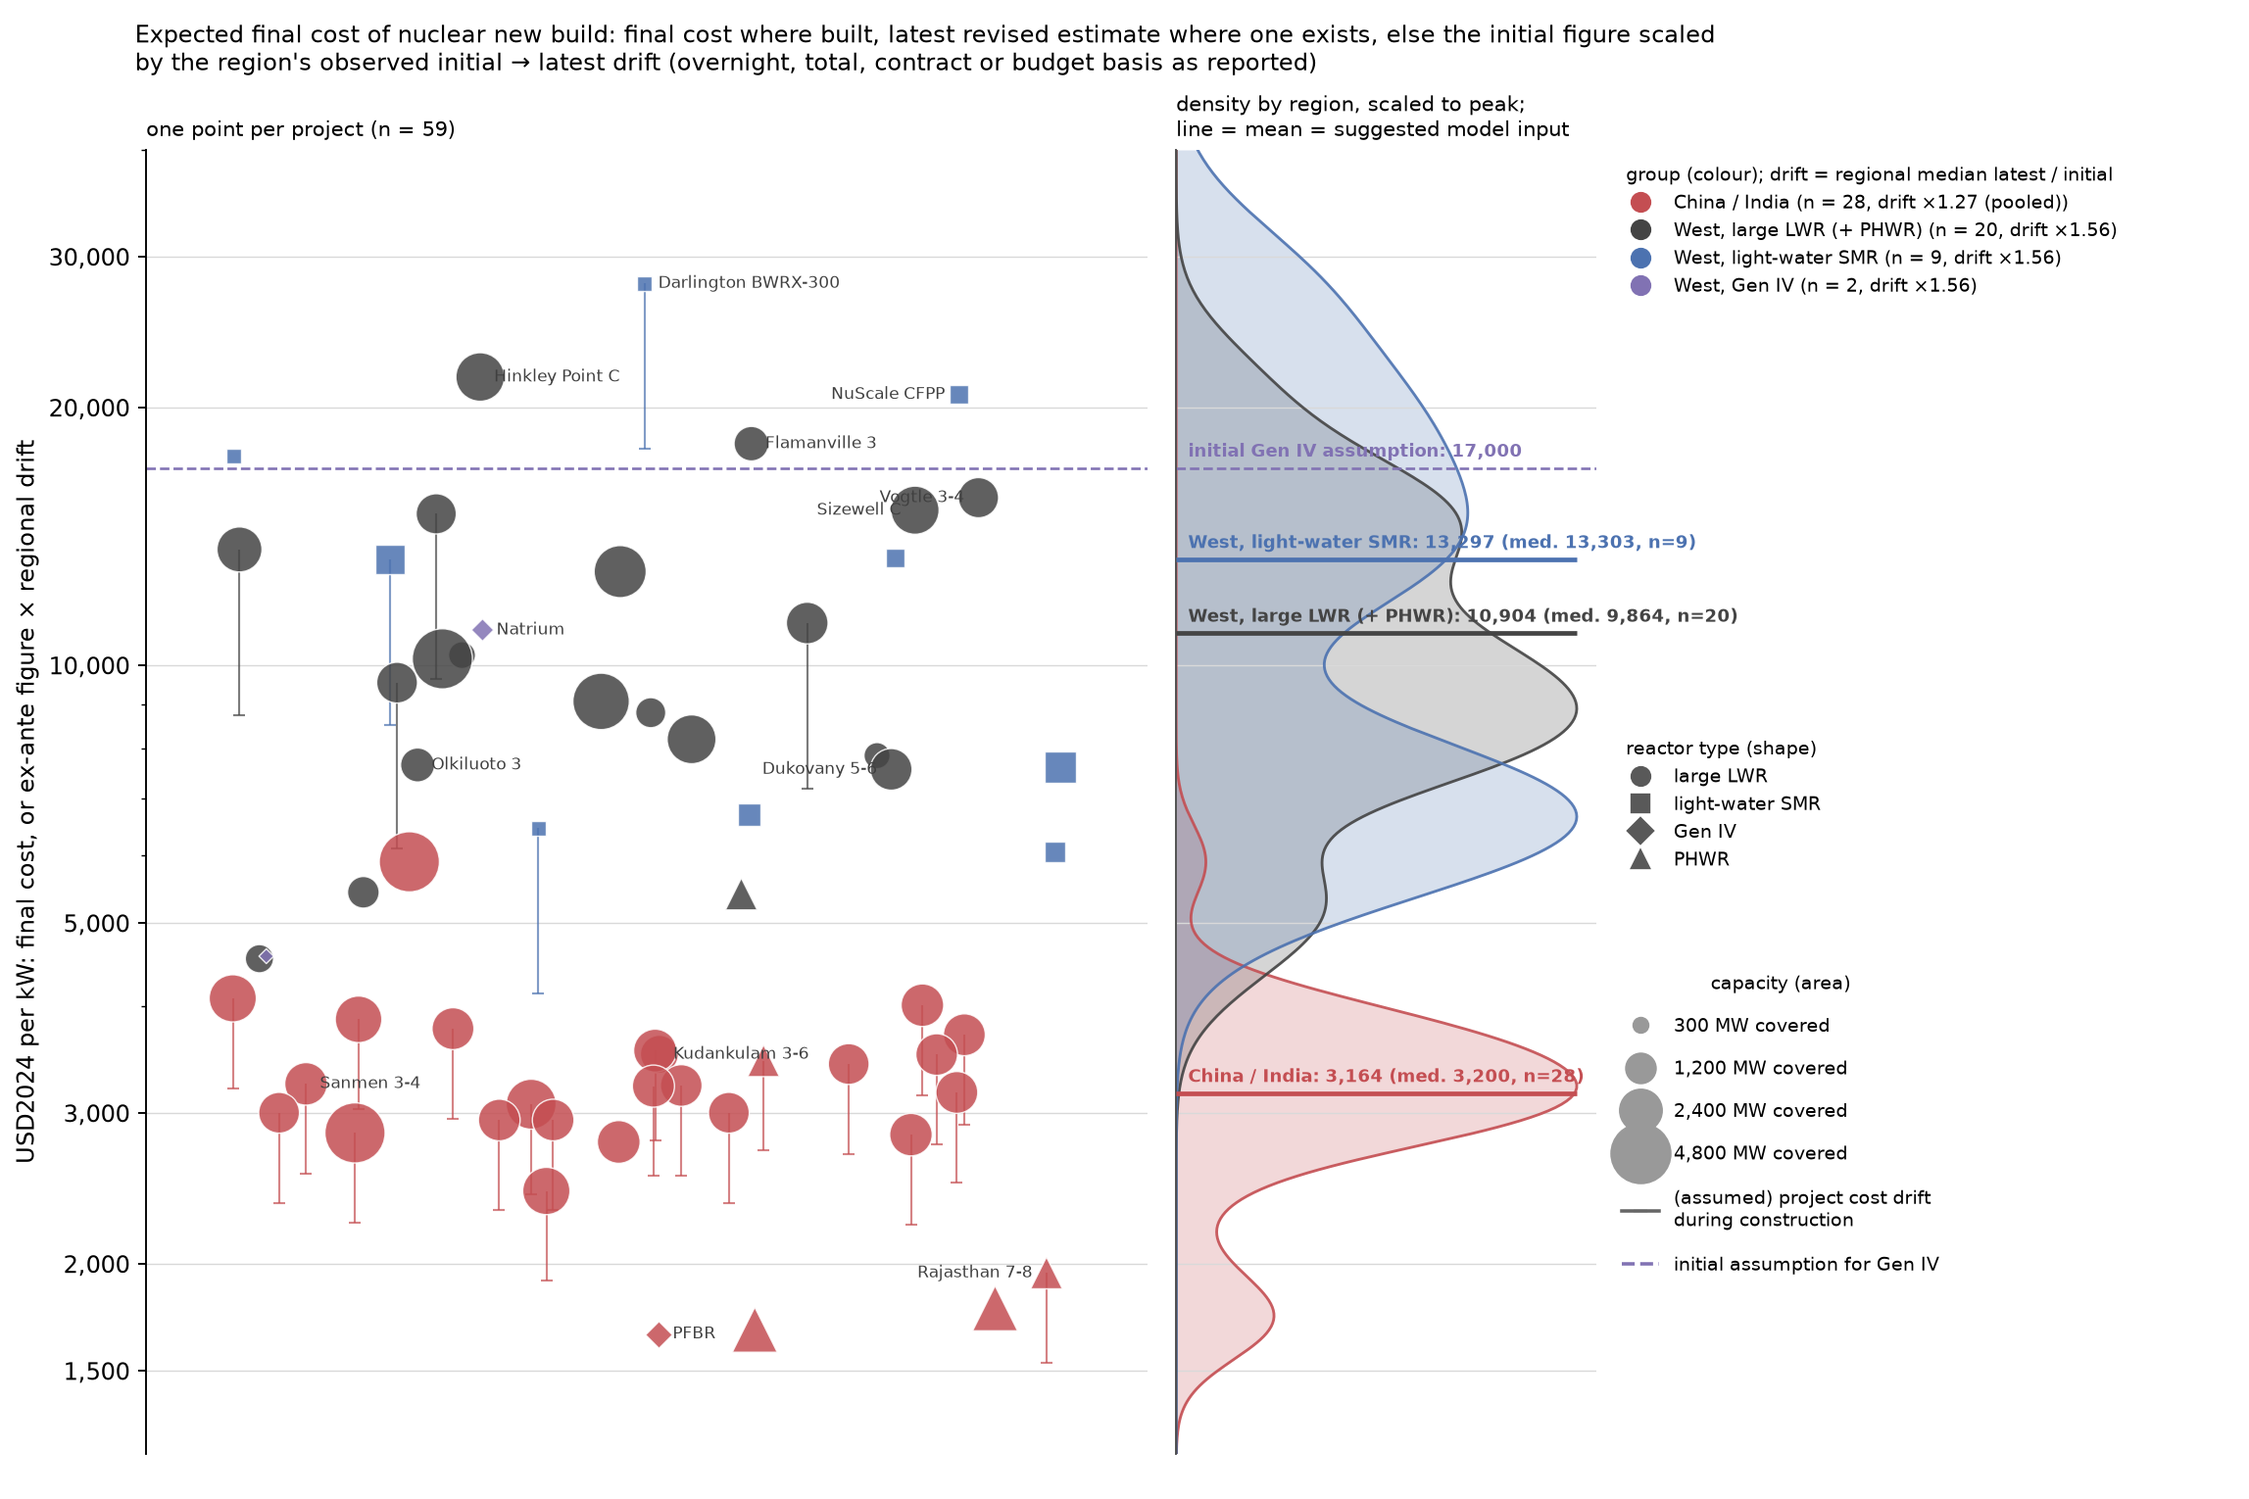
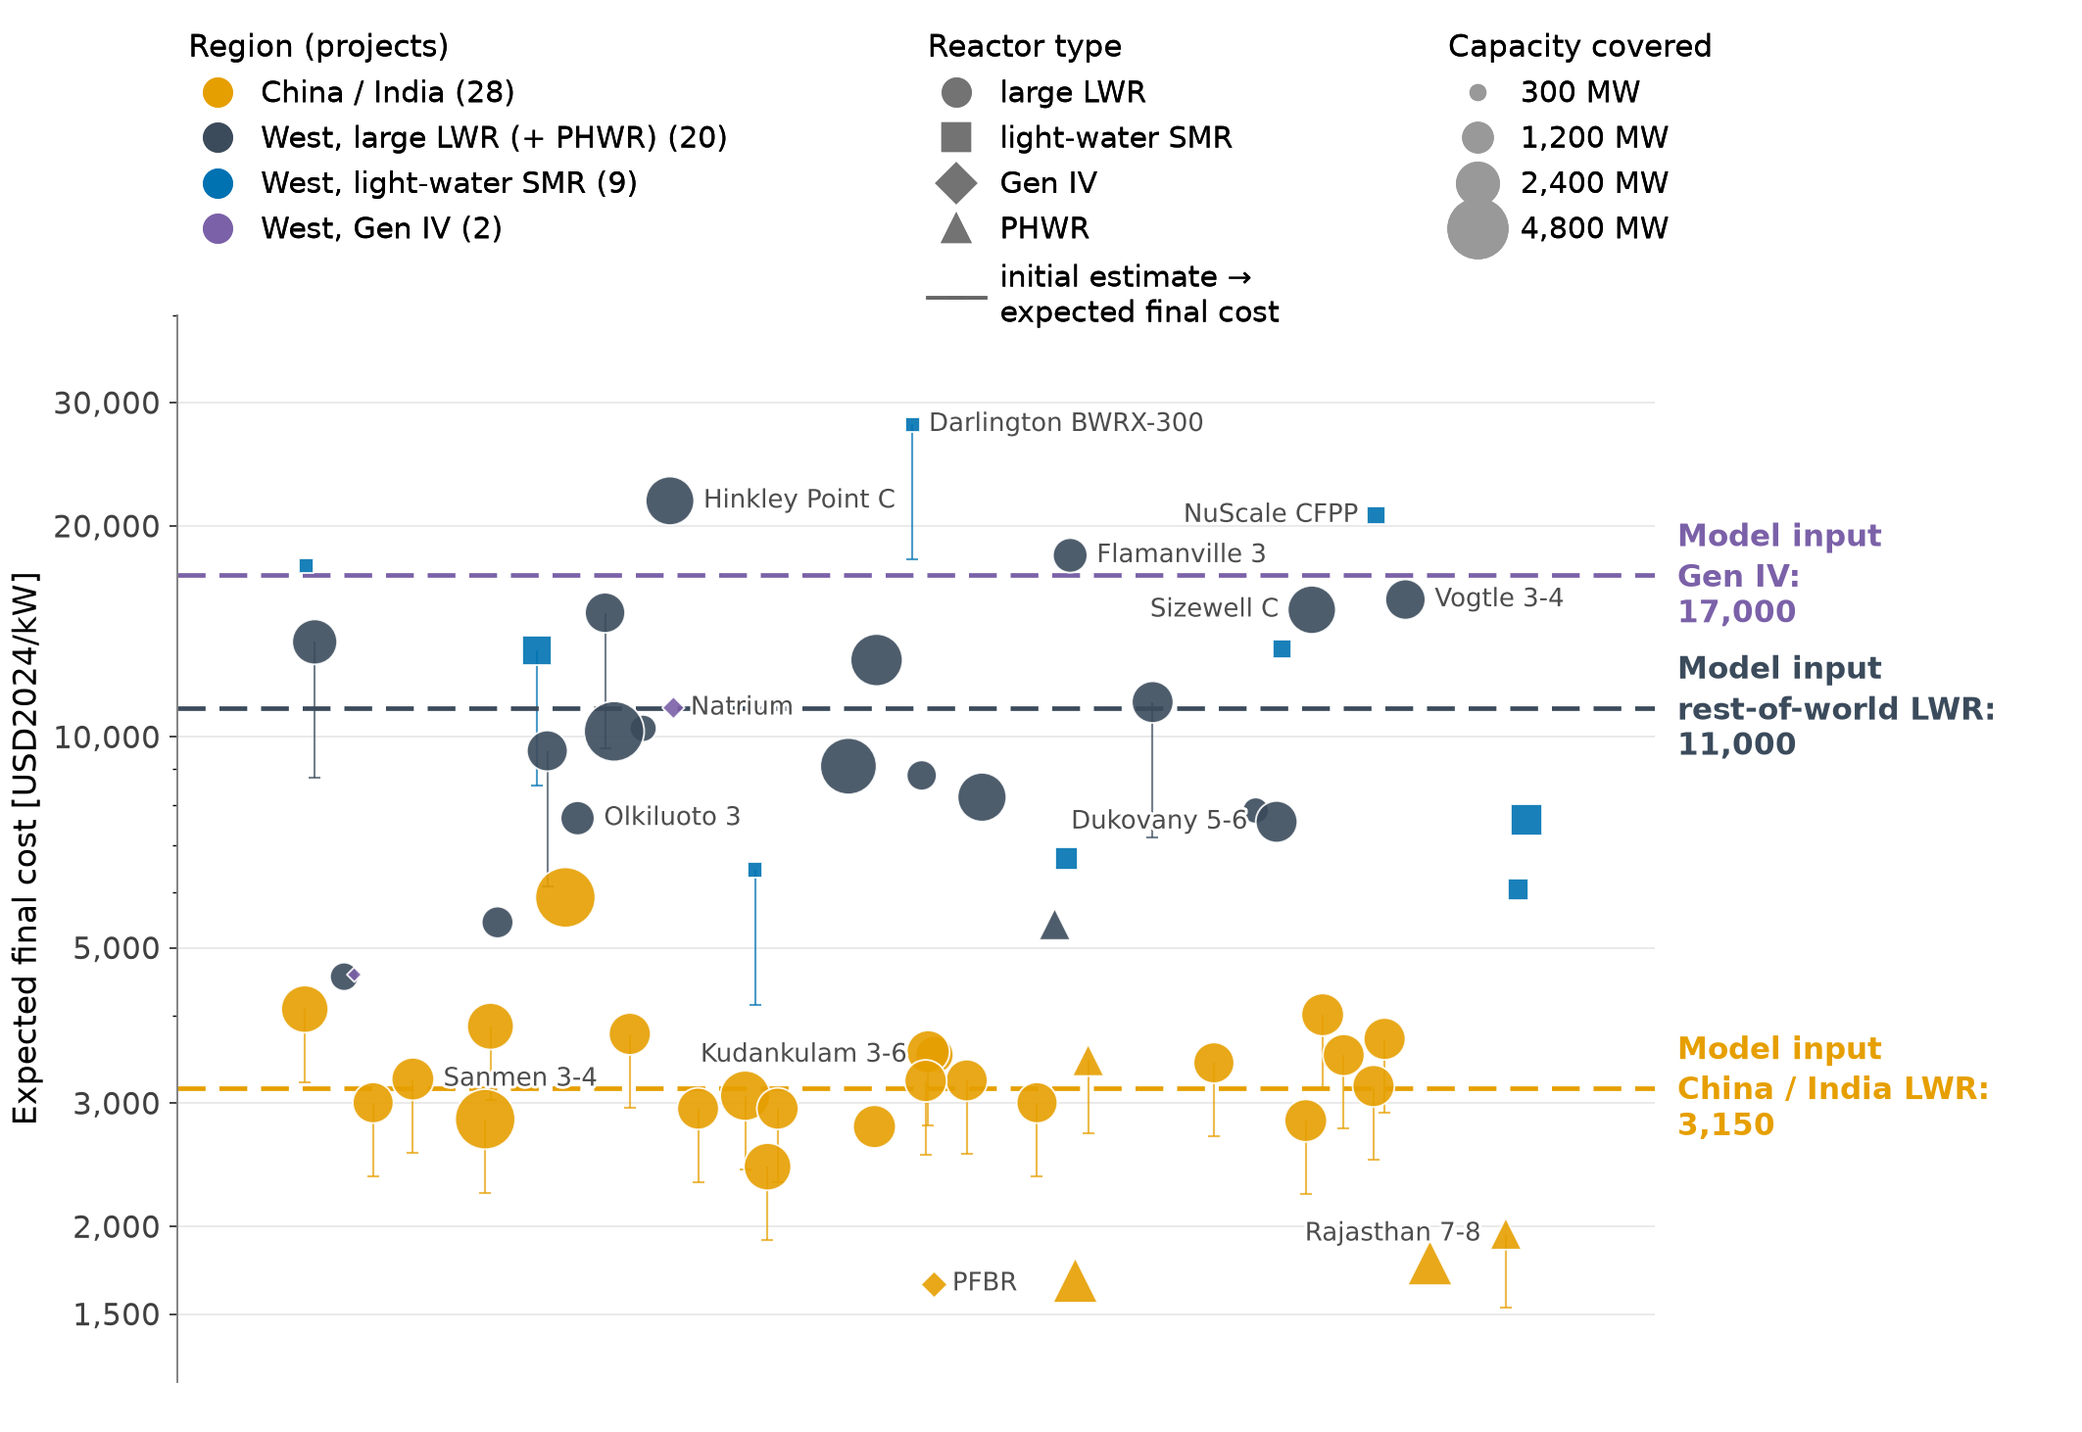
added nuclear project tracking

diff --git a/misc-quarter1/nuclear-projects/plot_maps.py b/misc-quarter1/nuclear-projects/plot_maps.py
@@ -12,6 +12,7 @@ from pathlib import Path
 
 import geopandas as gpd
 import matplotlib
+import matplotlib.patheffects
 import matplotlib.ticker
 
 matplotlib.use("Agg")
@@ -20,6 +21,7 @@ import numpy as np
 import pandas as pd
 import yaml
 from matplotlib.lines import Line2D
+from matplotlib.transforms import blended_transform_factory
 
 HERE = Path(__file__).parent
 if "snakemake" in globals():
@@ -166,12 +168,13 @@ def plot_costs(costs, nea):
     fig.savefig(OUT_COST, dpi=170)
 
 
-REGION_COLOR = {"China / India": "#c44e52", "Russia (domestic)": "#8172b3", "South Korea (domestic)": "#55a868",
-                "Rosatom export": "#64b5cd", "KHNP / CNNC export": "#937860", "other": "#aaaaaa",
-                "Europe / N. America / Japan": "#444444",
-                "Europe / N. America / Japan: large LWR": "#444444",
-                "Europe / N. America / Japan: light-water SMR": "#4c72b0",
-                "Europe / N. America / Japan: Gen IV": "#8172b3"}
+# Okabe-Ito based (colour-blind safe); no red, which is reserved for the model-input lines
+REGION_COLOR = {"China / India": "#E69F00", "Russia (domestic)": "#CC79A7", "South Korea (domestic)": "#009E73",
+                "Rosatom export": "#56B4E9", "KHNP / CNNC export": "#C9A66B", "other": "#B5B5B5",
+                "Europe / N. America / Japan": "#3B4B5C",
+                "Europe / N. America / Japan: large LWR": "#3B4B5C",
+                "Europe / N. America / Japan: light-water SMR": "#0072B2",
+                "Europe / N. America / Japan: Gen IV": "#7B61A8"}
 REGION_LABEL = {"Europe / N. America / Japan": "West", "Europe / N. America / Japan: large LWR": "West, large LWR (+ PHWR)",
                 "Europe / N. America / Japan: light-water SMR": "West, light-water SMR",
                 "Europe / N. America / Japan: Gen IV": "West, Gen IV"}
@@ -213,7 +216,7 @@ def plot_strip(costs):
         else:
             n = int(stats.loc[r, "count"]) if r in stats.index else 0
             drift[r] = pooled
-            drift_note[r] = f"×{pooled:.2f} (pooled)"
+            drift_note[r] = f"×{pooled:.2f}, pooled"
     # the marker sits at the expected final cost: the drift factor is latest / initial, so it is
     # applied to initial-kind figures only; a latest figure is a revised ex-ante number and stays
     d["exante"] = d[col].where(d.estimate_kind.eq("initial"))
@@ -222,13 +225,17 @@ def plot_strip(costs):
     # 100-300 MW units keep a readable shape
     d["size"] = (d["capacity_mw_covered"].clip(upper=5000) / 5000 * 26 ** 2).clip(lower=4.5 ** 2)
 
-    fig, (ax, kx) = plt.subplots(1, 2, figsize=(13.5, 9), sharey=True, gridspec_kw={"width_ratios": [1.0, 0.42], "wspace": 0.04})
+    plt.rcParams.update({"font.size": 13, "axes.labelsize": 14, "ytick.labelsize": 13, "legend.fontsize": 12.5,
+                         "legend.title_fontsize": 13})
+    # one panel; the legends sit side by side in a band above it, the model-input labels in a margin to its right
+    fig = plt.figure(figsize=(12.5, 8.6))
+    ax = fig.add_axes([0.085, 0.035, 0.71, 0.745])
     for t, (marker, _) in TYPE_MARK.items():
         for r, c in REGION_COLOR.items():
             p = d[d.type.eq(t) & d.group.eq(r)]
             if len(p):
                 ax.scatter(p.x, p.y, s=p["size"], marker=marker, facecolor=c, edgecolor="white",
-                           linewidth=0.6, alpha=0.85, zorder=3)
+                           linewidth=0.8, alpha=0.9, zorder=3)
                 q = p[p.exante.notna() & (p.exante != p.y)]
                 ax.vlines(q.x, q.exante, q.y, color=c, linewidth=0.9, alpha=0.7, zorder=2)
                 ax.scatter(q.x, q.exante, marker="_", s=30, color=c, linewidth=0.9, alpha=0.7, zorder=2)
@@ -242,81 +249,45 @@ def plot_strip(costs):
     for _, r in d.iterrows():
         key = r["project"].replace(" nuclear power plant", "").replace(" nuclear power station", "")
         if key in names:
-            ax.annotate(names[key], (r.x, r.y), xytext=(6 if r.x < 0.55 else -6, 0), textcoords="offset points",
-                        fontsize=7, ha="left" if r.x < 0.55 else "right", va="center", color="0.25")
+            off = 4 + np.sqrt(r["size"]) / 2                 # clear of the marker, whatever its size
+            right = {"Vogtle 3-4": True, "Kudankulam 3-6": False}.get(names[key], r.x < 0.55)   # crowded spots by hand
+            ax.annotate(names[key], (r.x, r.y), xytext=(off if right else -off, 0), textcoords="offset points",
+                        fontsize=11, ha="left" if right else "right", va="center", color="0.3", zorder=6,
+                        path_effects=[matplotlib.patheffects.withStroke(linewidth=2.5, foreground="white")])
     ax.set_yscale("log")
     ax.set_ylim(1200, 40000)
     ax.set_yticks([1500, 2000, 3000, 5000, 10000, 20000, 30000])
     ax.set_yticklabels(["1,500", "2,000", "3,000", "5,000", "10,000", "20,000", "30,000"])
     ax.yaxis.set_minor_formatter(matplotlib.ticker.NullFormatter())
-    ax.set_ylabel(f"{col.replace('_per_kw', '').upper()} per kW: final cost, or ex-ante figure × regional drift")
+    ax.set_ylabel(f"Expected final cost [{col.replace('_per_kw', '').upper()}/kW]")
     ax.set_xlim(-1.2, 1.2)
     ax.set_xticks([])
-    ax.grid(True, axis="y", which="major", color="0.85", linewidth=0.6)
+    ax.grid(True, axis="y", which="major", color="0.9", linewidth=0.7)
     ax.spines[["top", "right", "bottom"]].set_visible(False)
-    # right panel: one-sided kernel densities of the expected final cost per region (log space),
-    # all rising from the same baseline, mean marked and labelled
-    from scipy.stats import gaussian_kde
-    grid_y = np.linspace(np.log10(1200), np.log10(40000), 400)
-    means = {}
-    for r, c in REGION_COLOR.items():
-        v = d[d.group.eq(r)]["y"]
-        if len(v) < CFG.get("strip_min_density", 5):
-            continue
-        dens = gaussian_kde(np.log10(v), bw_method=0.35)(grid_y)
-        dens = dens / dens.max()
-        kx.fill_betweenx(10 ** grid_y, 0, dens, color=c, alpha=0.22, linewidth=0)
-        kx.plot(dens, 10 ** grid_y, color=c, linewidth=1.2, alpha=0.9)
-        means[r] = (v.mean(), v.median(), len(v), c)
-    # mean lines with labels inside the panel, nudged apart where they would overlap (log spacing)
-    order = sorted(means.items(), key=lambda kv: kv[1][0])
-    last = 0
-    for r, (mean, med, n, c) in order:
-        kx.hlines(mean, 0, 1.0, color=c, linewidth=2.0, zorder=4)
-        ytext = max(mean * 1.02, last * 1.10) if last else mean * 1.02
-        short = REGION_LABEL.get(r, {"Russia (domestic)": "Russia", "South Korea (domestic)": "Korea"}.get(r, r))
-        kx.text(0.03, ytext, f"{short}: {mean:,.0f} (med. {med:,.0f}, n={n})",
-                fontsize=7.5, color=c, va="bottom", ha="left", fontweight="bold", zorder=5)
-        last = ytext
-    gen4 = CFG.get("gen4_assumption_usd_per_kw")
-    if gen4:
-        for a in (ax, kx):
-            a.axhline(gen4, color="#8172b3", linestyle="--", linewidth=1.1)
-        kx.text(0.03, gen4 * 1.02, f"initial Gen IV assumption: {gen4:,}", fontsize=7.5, color="#8172b3",
-                va="bottom", ha="left", fontweight="bold")
-    kx.set_xlim(0, 1.05)
-    kx.set_xticks([])
-    kx.grid(True, axis="y", which="major", color="0.85", linewidth=0.6)
-    kx.spines[["top", "right", "bottom"]].set_visible(False)
-    kx.spines["left"].set_color("0.3")
-    kx.tick_params(axis="y", which="both", length=0)
-    kx.set_title("density by region, scaled to peak;\nline = mean = suggested model input", fontsize=9, loc="left")
+    ax.spines["left"].set_color("0.5")
+    ax.tick_params(axis="y", colors="0.25")
+    # the model's CAPEX per nuclear bin (technology_assumptions.csv): a dashed line in the colour of the group it
+    # stands for, labelled over several lines in the right margin
+    mi = CFG.get("model_inputs")
+    if mi:
+        ta = pd.read_csv((HERE / mi["csv"]).resolve(), dtype=str, keep_default_na=False).set_index("technology")
+        for key, row in mi["rows"].items():
+            v = float(ta.at[key, "capex_power_usd_kw"])
+            c = REGION_COLOR[row["group"]]
+            ax.axhline(v, color=c, linestyle=(0, (6, 3)), linewidth=2.0, zorder=2.5)
+            ax.text(1.015, v, f"Model input\n{row['label']}:\n{v:,.0f}", transform=blended_transform_factory(ax.transAxes, ax.transData),
+                    color=c, fontsize=13, fontweight="bold", va="center", ha="left", linespacing=1.25, clip_on=False)
     counts = d.group.value_counts()
-    h_reg = [Line2D([], [], marker="o", linestyle="", color=c, markersize=8,
-                    label=f"{REGION_LABEL.get(r, r)} (n = {counts.get(r, 0)}, drift {drift_note[r.split(':')[0]]})")
+    h_reg = [Line2D([], [], marker="o", linestyle="", color=c, markersize=12, label=f"{REGION_LABEL.get(r, r)} ({counts.get(r, 0)})")
              for r, c in REGION_COLOR.items() if counts.get(r, 0)]
-    h_typ = [Line2D([], [], marker=m, linestyle="", color="0.35", markersize=8, label=lab)
+    h_typ = [Line2D([], [], marker=m, linestyle="", color="0.45", markersize=12, label=lab)
              for t, (m, lab) in TYPE_MARK.items() if t in set(d.type)]
     h_size = [Line2D([], [], marker="o", linestyle="", color="0.6", markersize=max(np.sqrt(mw / 5000) * 26, 4.5),
-                     label=f"{mw:,} MW covered" + (" (floor)" if np.sqrt(mw / 5000) * 26 < 4.5 else ""))
-              for mw in (300, 1200, 2400, 4800)]
-    leg1 = kx.legend(handles=h_reg, loc="upper left", bbox_to_anchor=(1.02, 1.0), fontsize=8, frameon=False,
-                     title="group (colour); drift = regional median latest / initial", title_fontsize=8)
-    kx.add_artist(leg1)
-    leg2 = kx.legend(handles=h_typ, loc="upper left", bbox_to_anchor=(1.02, 0.56), fontsize=8, frameon=False,
-                     title="reactor type (shape)", title_fontsize=8)
-    kx.add_artist(leg2)
-    h_size.append(Line2D([], [], marker="_", linestyle="-", color="0.4", markersize=6,
-                         label="(assumed) project cost drift\nduring construction"))
-    if gen4:
-        h_size.append(Line2D([], [], linestyle="--", color="#8172b3", label="initial assumption for Gen IV"))
-    kx.legend(handles=h_size, loc="upper left", bbox_to_anchor=(1.02, 0.38), fontsize=8, frameon=False,
-              title="capacity (area)", title_fontsize=8, labelspacing=1.3)
-    ax.set_title("one point per project (n = %d)" % len(d), fontsize=9, loc="left")
-    fig.suptitle("Expected final cost of nuclear new build: final cost where built, latest revised estimate where one exists, "
-                 "else the initial figure scaled\nby the region's observed initial → latest drift "
-                 "(overnight, total, contract or budget basis as reported)", fontsize=10, x=0.06, y=0.985, ha="left")
-    fig.subplots_adjust(left=0.065, right=0.71, top=0.90, bottom=0.03)
+                     label=f"{mw:,} MW") for mw in (300, 1200, 2400, 4800)]
+    h_typ.append(Line2D([], [], marker="_", linestyle="-", color="0.4", markersize=8, label="initial estimate →\nexpected final cost"))
+    kw = dict(loc="upper left", frameon=False, alignment="left", borderaxespad=0.0, handletextpad=0.5)
+    for handles, title, x in ((h_reg, "Region (projects)", 0.085), (h_typ, "Reactor type", 0.44), (h_size, "Capacity covered", 0.69)):
+        fig.add_artist(fig.legend(handles=handles, title=title, bbox_to_anchor=(x, 0.985), labelspacing=0.55, **kw))
     fig.savefig(OUT_STRIP, dpi=170)
 
 

diff --git a/misc-quarter1/nuclear-projects/README.md b/misc-quarter1/nuclear-projects/README.md
@@ -45,7 +45,7 @@ includes financing costs.
 | `build/nea_benchmarks.csv` | NEA / IEA published overnight costs in USD2024/kW |
 | `figures/nuclear_sites_map.png` | world map of sites by status, marker size = MW |
 | `figures/nuclear_cost_per_kw.png` | USD2024/kW per project, initial estimate → latest / final; colour = generation, marker = status of the costed units |
-| `figures/nuclear_cost_strip.png` | the same projects as one jittered strip: colour = region (`cost_regions` in config.yaml), shape = reactor type (fusion and unknown dropped), area = MW covered (floor at ~150 MW). The marker sits at the *expected final cost*: the final cost for built plants, the latest revised estimate where one exists, else the initial figure × the region's median latest-or-final / initial ratio over same-scope pairs (real USD, so exchange-rate and inflation effects are taken out; pooled median over all pairs, ×1.27, where a region has fewer than `drift_min_pairs` of its own), with a thin line down to the published initial figure. The factor is a latest/initial ratio, so it is applied to initial-kind figures only: scaling Hinkley's or Sizewell's already revised estimate would double-count, while China's State Council approval totals and NPCIL sanctioned budgets are exactly the initial kind. Observed: West ×1.56 (10 pairs), Rosatom exports ×1.25 (5), Korea/Russia ×1.27 (3); India's two pairs are ≈×1.0 in real USD (rupee depreciation and inflation absorb the nominal +40–70 %). The right panel gives one-sided kernel densities (log space, each scaled to its peak) of the expected final cost per region with mean and median labelled; the means are the suggested regional model inputs (West ~11,000, Rosatom export ~6,800, Russia domestic ~5,700, China / India ~3,200 USD2024/kW). The figure is restricted to the two regions that matter for the study, China / India and the West; Russia domestic, Rosatom exports, South Korea, KHNP/CNNC exports and "other" are left out (`strip_exclude` in config.yaml; their rows stay in the data and in the per-project chart) |
+| `figures/nuclear_cost_strip.png` | the same projects as one jittered strip: colour = region (`cost_regions` in config.yaml), shape = reactor type (fusion and unknown dropped), area = MW covered (floor at ~150 MW). The marker sits at the *expected final cost*: the final cost for built plants, the latest revised estimate where one exists, else the initial figure × the region's median latest-or-final / initial ratio over same-scope pairs (real USD, so exchange-rate and inflation effects are taken out; pooled median over all pairs, ×1.27, where a region has fewer than `drift_min_pairs` of its own), with a thin line down to the published initial figure. The factor is a latest/initial ratio, so it is applied to initial-kind figures only: scaling Hinkley's or Sizewell's already revised estimate would double-count, while China's State Council approval totals and NPCIL sanctioned budgets are exactly the initial kind. Observed: West ×1.56 (10 pairs), Rosatom exports ×1.25 (5), Korea/Russia ×1.27 (3); India's two pairs are ≈×1.0 in real USD (rupee depreciation and inflation absorb the nominal +40–70 %). One panel (the density panel was removed on 2026-10-05): the legends sit side by side above the points, and the model inputs of the technology-assumptions CSV (`model_inputs` in config.yaml) are dashed lines in the colour of the group they stand for (`group` per row), labelled in the right margin. Region means for reference: China / India 3,164 USD/kW (median 3,200, n = 28), West large LWR 10,904 (9,864, 20), West light-water SMR 13,297 (13,303, 9). |
 
 ## Conventions and caveats
 
